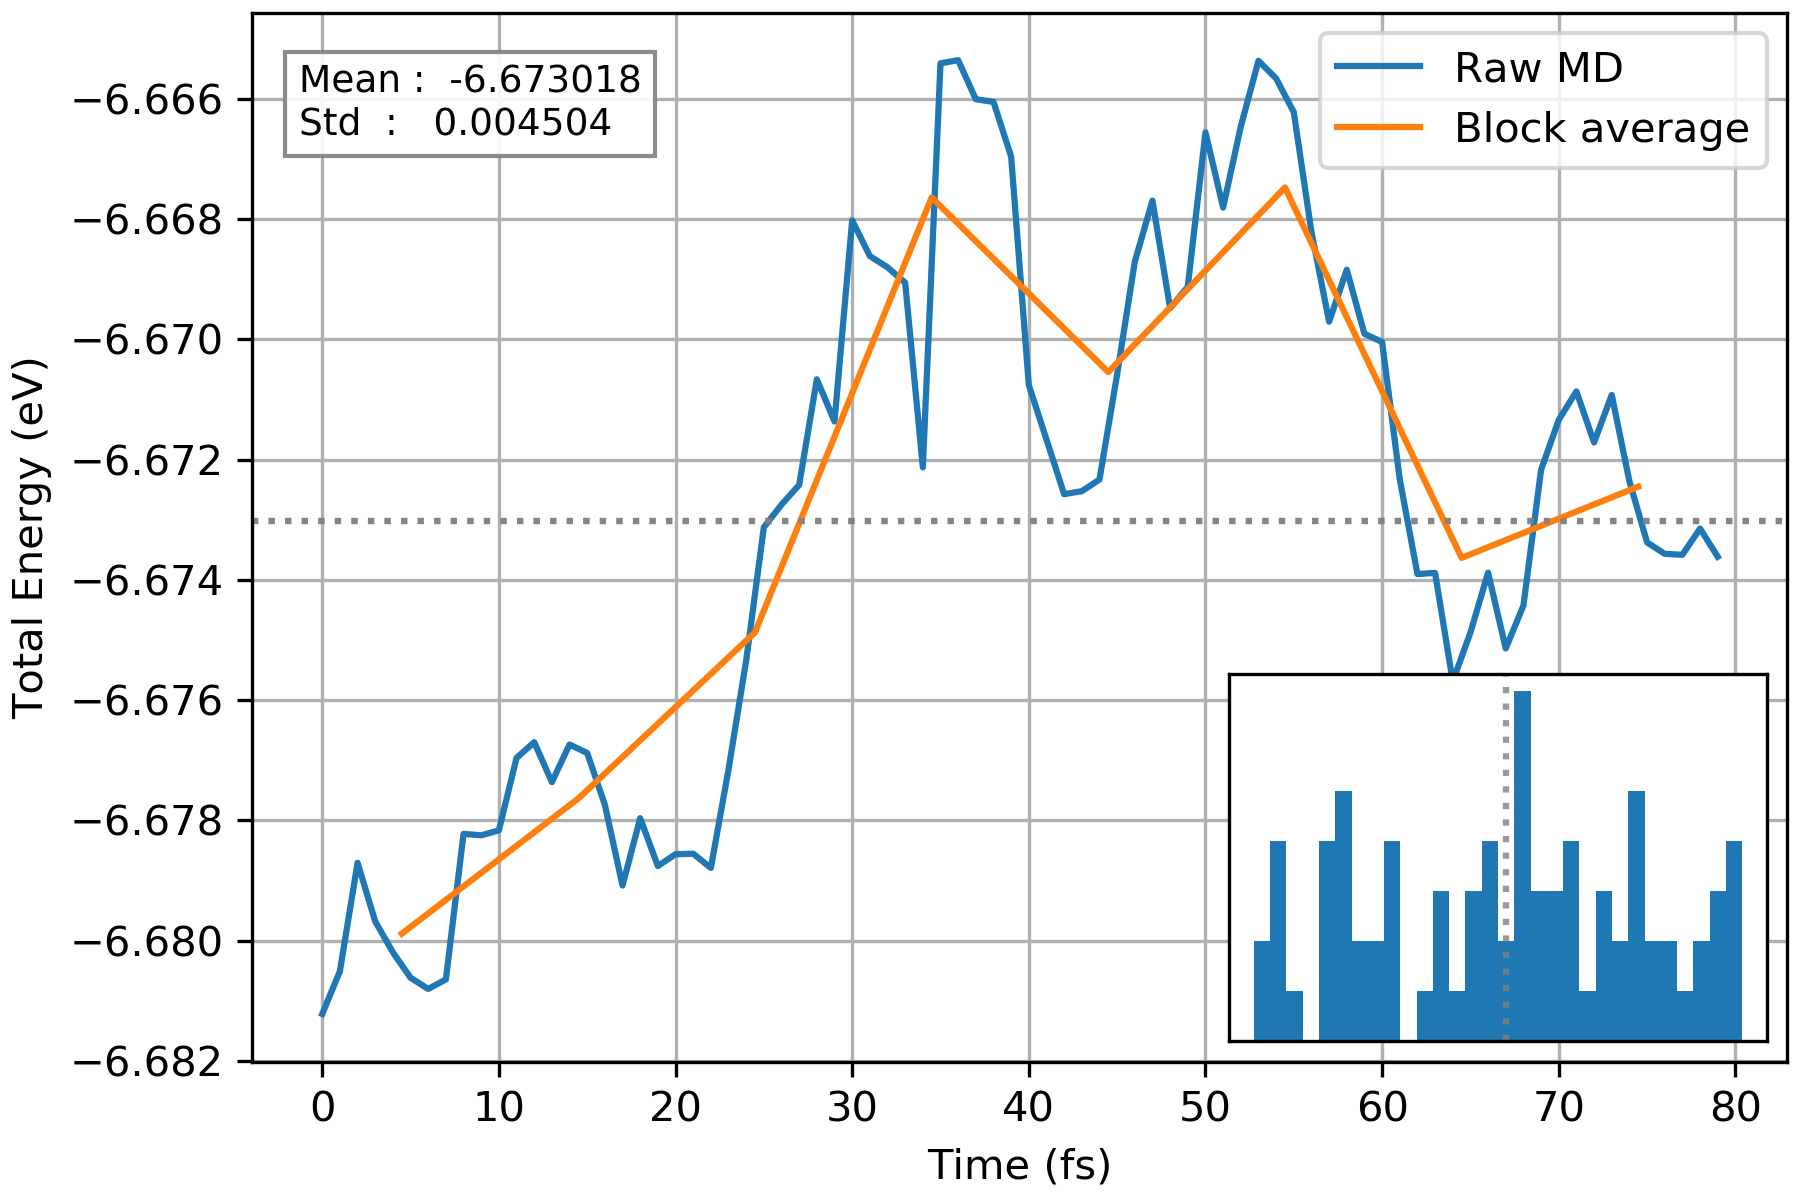
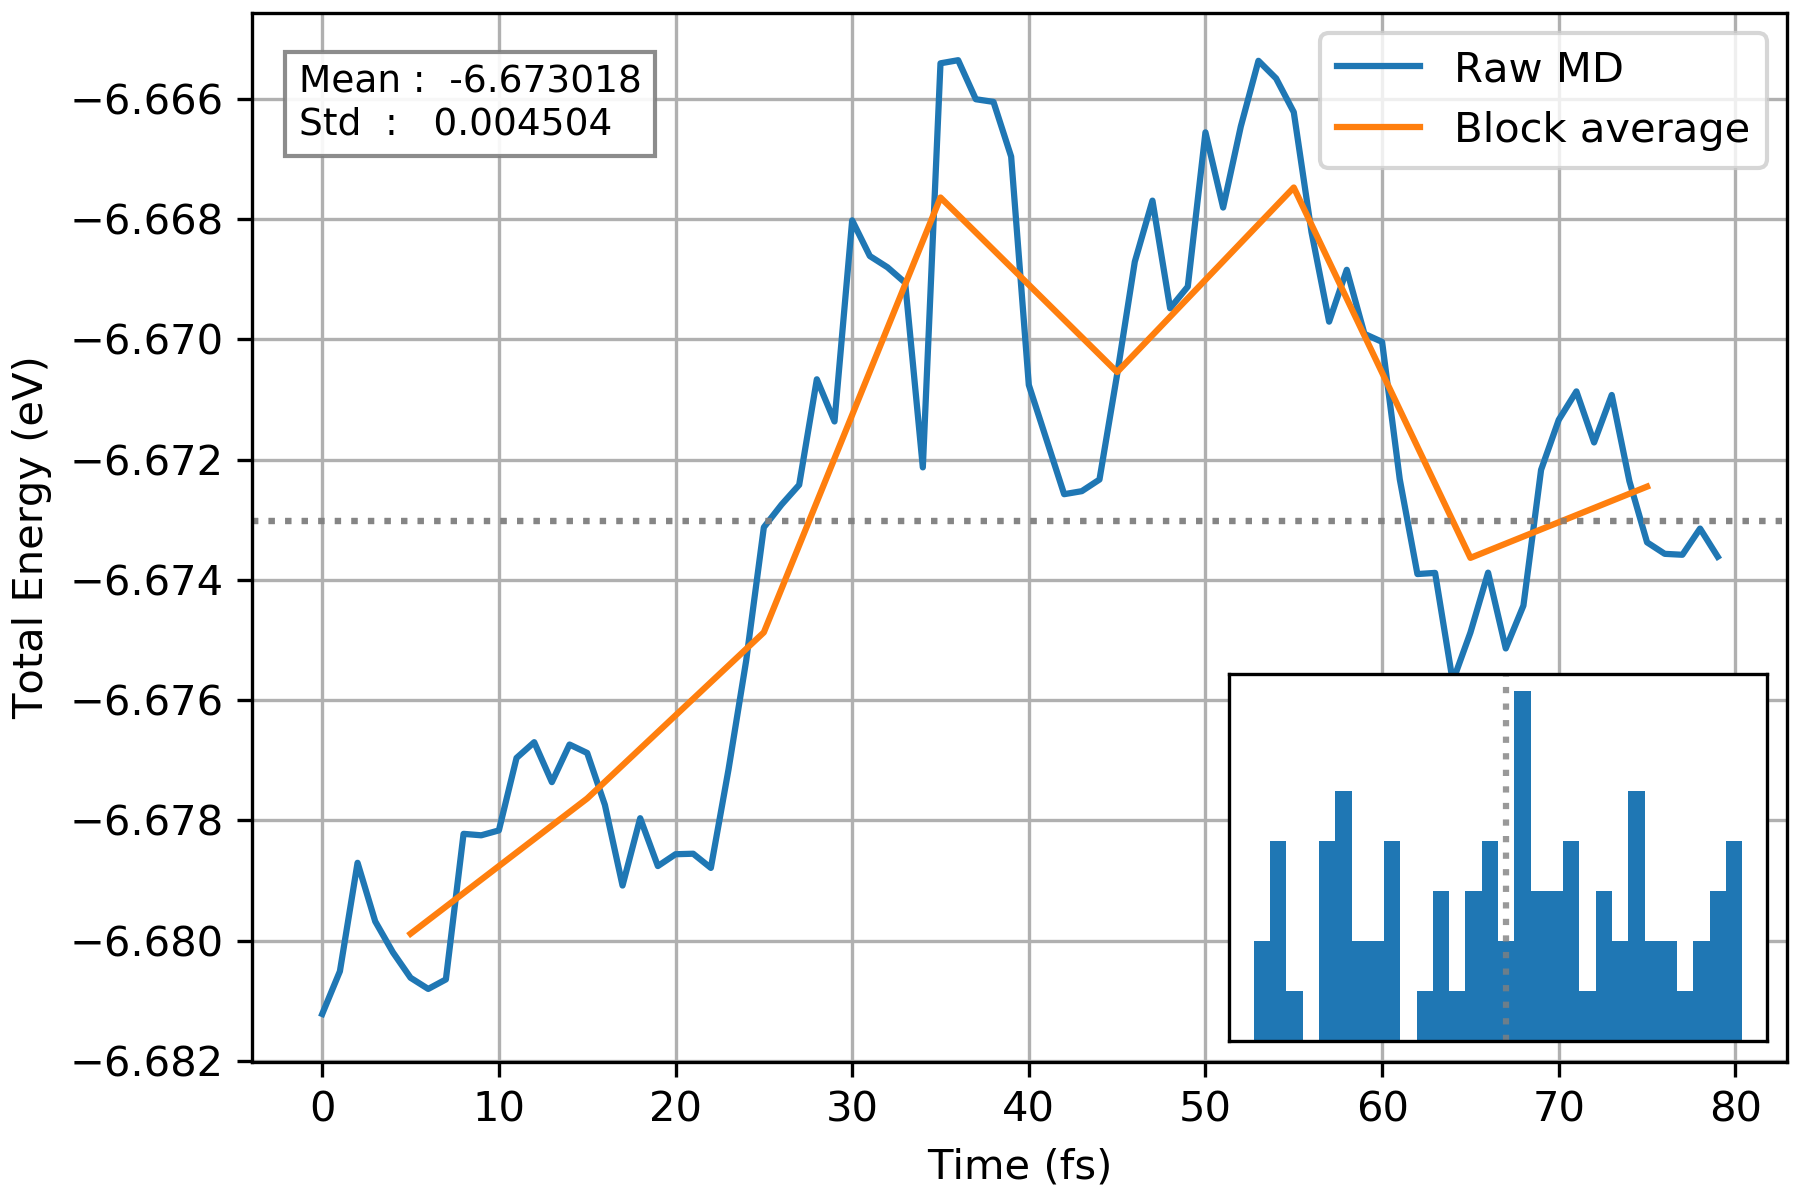
AIMD analysis: refactoring timesteps, test completed

diff --git a/aimd_analysis/model/md_profile.py b/aimd_analysis/model/md_profile.py
@@ -18,7 +18,6 @@ class MDProfile:
     operation: Optional[str] = field(default=None)
 
     # NVT에서 기본적으로 추출할 것들.
-    step: np.ndarray = field(default=None)
     Epot: np.ndarray = field(default=None)
     Ekin: np.ndarray = field(default=None)
     Etot: np.ndarray = field(default=None)
@@ -41,7 +40,11 @@ class MDProfile:
     lat_bet: Optional[np.ndarray] = field(default=None)
     lat_gam: Optional[np.ndarray] = field(default=None)
 
-    # 실제 timestep (in fs) --> 실제 시간을 쓰려면, step * dt 를 하도록. (INCAR reading 필요.)
+    # self.stride, self.first_step: step 간격 및 원점
+    stride: int = 1
+    first_step: int = 1
+
+    # 실제 timestep (in fs) --> 실제 시간을 쓰려면, step * dt 를 하도록.
     dt: Optional[float] = field(default=None)
 
     # Statistical data of time sequences (computed in statistics.py)
@@ -52,9 +55,25 @@ class MDProfile:
     # 다른 유도 properties(추출하는 것들로부터 계산되는 것들)는 여기.
     @property
     def nsteps(self) -> int:
-        if self.step is None:
-            return 0
-        return len(self.step)
+        if self.Etot is not None:
+            return len(self.Etot)
+
+        if self.lat_vecs is not None:
+            return len(self.lat_vecs)
+
+        return 0
+
+    @property
+    def indices(self) -> np.ndarray:
+        if self.nsteps == 0:
+            return None
+        return np.arange(self.nsteps)
+
+    @property
+    def step(self) -> Optional[np.ndarray]:
+        if self.nsteps == 0:
+            return None
+        return self.first_step + self.indices * self.stride
 
     @property
     def time(self) -> Optional[np.ndarray]:

diff --git a/aimd_analysis/reader/outcar.py b/aimd_analysis/reader/outcar.py
@@ -25,7 +25,6 @@ def _parse_outcar_line(line: str, data: dict) -> None:
 
     elif len(fields) >= 4 and fields[1:3] == ["Ionic", "step"]:
         data["_in_ionic_steps"] = True
-        data["step"].append(int(fields[3]))
 
     elif data["_in_ionic_steps"]:
         if data["_reading_lattice"]:
@@ -64,7 +63,6 @@ def _parse_outcar_line(line: str, data: dict) -> None:
 def read_outcar(filename: Path, verbose: bool = False) -> MDProfile:
 
     data = {
-        "step": [],
         "Epot": [],
         "Ekin": [],
         "T_md": [],
@@ -91,7 +89,6 @@ def read_outcar(filename: Path, verbose: bool = False) -> MDProfile:
 
     _validate_data(data)
 
-    step_ = np.asarray(data["step"])
     epot = np.asarray(data["Epot"])
     ekin = np.asarray(data["Ekin"])
     temperature = np.asarray(data["T_md"])
@@ -109,15 +106,13 @@ def read_outcar(filename: Path, verbose: bool = False) -> MDProfile:
         else None
     )
 
-    dt = data["dt"]
-
     return MDProfile(
-        step=step_,
         Epot=epot,
         Ekin=ekin,
         Etot=epot + ekin,
         T_md=temperature,
-        dt=dt,
+        dt=data["dt"],
+        stride=1,
         P_md=pressure,
         V_md=volume,
         lat_vecs=lat_vecs
@@ -125,10 +120,7 @@ def read_outcar(filename: Path, verbose: bool = False) -> MDProfile:
 
 def _validate_data(data: dict) -> None:
 
-    n = len(data["step"])
-
-    if len(data["Epot"]) != n:
-        raise ValueError("Different data length!!")
+    n = len(data["Epot"])
 
     if len(data["Ekin"]) != n:
         raise ValueError("Different data length!!")

diff --git a/aimd_analysis/reader/report_pureHO.py b/aimd_analysis/reader/report_pureHO.py
@@ -16,10 +16,7 @@ def _parse_report_line_pureHO(line: str, data: dict) -> None:
     if not fields:
         return
 
-    if fields[0] == "MD":
-        data["step"].append(int(fields[3]))
-
-    elif fields[0] == "e_b":
+    if fields[0] == "e_b":
         data["Ekin"].append(float(fields[3]))
 
     elif fields[0] == "e_ti":
@@ -40,7 +37,6 @@ def _parse_report_line_pureHO(line: str, data: dict) -> None:
 def read_report_pureHO(filename: Path, verbose: bool = False) -> MDProfile:
 
     data = {
-        "step": [],
         "Epot": [],
         "Ekin": [],
         "T_md": [],
@@ -55,13 +51,11 @@ def read_report_pureHO(filename: Path, verbose: bool = False) -> MDProfile:
 
     _validate_data(data)
 
-    step_ = np.asarray(data["step"])
     epot = np.asarray(data["Epot"])
     ekin = np.asarray(data["Ekin"])
     temp = np.asarray(data["T_md"])
 
     return MDProfile(
-        step=step_,
         Epot=epot,
         Ekin=ekin,
         Etot=epot + ekin,
@@ -70,10 +64,7 @@ def read_report_pureHO(filename: Path, verbose: bool = False) -> MDProfile:
 
 def _validate_data(data: dict) -> None:
 
-    n = len(data["step"])
-
-    if len(data["Epot"]) != n:
-        raise ValueError("Different data length!!")
+    n = len(data["Epot"])
 
     if len(data["Ekin"]) != n:
         raise ValueError("Different data length!!")

diff --git a/aimd_analysis/analysis/statistics.py b/aimd_analysis/analysis/statistics.py
@@ -59,6 +59,7 @@ def summary(profile: MDProfile, verbose: bool = False) -> None:
     print("MD Summary")
     print("=" * 50)
 
+    print(f"Step range      : {profile.step[0]} -> {profile.step[-1]}")
     print(f"Number of steps : {profile.nsteps}")
 
     if profile.dt is not None:
@@ -119,7 +120,6 @@ def slice_profile(
         parent=profile,
         operation="slice",
 
-        step=profile.step[start:stop],
         Epot=profile.Epot[start:stop],
         Ekin=profile.Ekin[start:stop],
         Etot=profile.Etot[start:stop],
@@ -135,6 +135,8 @@ def slice_profile(
         lat_gam=_slice_optional(profile.lat_gam, start, stop),
 
         dt=profile.dt,
+        stride=profile.stride,
+        first_step=profile.step[start],
     )
 
 
@@ -165,7 +167,6 @@ def block_average(
         parent=profile,
         operation="block_average",
 
-        step=_block_average_array(profile.step, block_size),
         Epot=_block_average_array(profile.Epot, block_size),
         Ekin=_block_average_array(profile.Ekin, block_size),
         Etot=_block_average_array(profile.Etot, block_size),
@@ -181,6 +182,8 @@ def block_average(
         lat_gam=_block_average_array(profile.lat_gam, block_size),
 
         dt=profile.dt,
+        stride=profile.stride * block_size,
+        first_step = profile.step[block_size // 2],
     )
 
 

diff --git a/aimd_analysis/reader/incar.py b/aimd_analysis/reader/incar.py
@@ -15,6 +15,8 @@ def _parse_incar_line(line: str, data: dict) -> None:
 
     if fields[0] == "POTIM":
         data["potim"] = float(fields[1])
+    elif fields[0] == "ML_OUTBLOCK":
+        data["ml_outblock"] = int(fields[1])
 
     # 이후 더 필요한 tag는 여기 추가
 
@@ -23,6 +25,7 @@ def read_incar(filename: Path) -> INCAR:
 
     data = {
         "potim": None,
+        "ml_outblock": 1,
     }
 
     with open(filename, "r") as f:
@@ -33,6 +36,7 @@ def read_incar(filename: Path) -> INCAR:
 
     return INCAR(
         potim=data["potim"],
+        ml_outblock=data["ml_outblock"]
     )
 
 def _validate_data(data: dict) -> None:

diff --git a/examples/pureHO_example_histogram.py b/examples/pureHO_example_histogram.py
@@ -21,6 +21,8 @@ profile = read_report_pureHO(report)
 incar = read_incar(incar)
 
 profile.dt = incar.potim
+profile.stride = incar.ml_outblock
+profile.first_step = incar.ml_outblock
 
 compute_statistics(profile)
 

diff --git a/examples/pureHO_example_overlay.py b/examples/pureHO_example_overlay.py
@@ -35,6 +35,8 @@ profile = read_report_pureHO(report)
 incar = read_incar(incar)
 
 profile.dt = incar.potim
+profile.stride = incar.ml_outblock
+profile.first_step = incar.ml_outblock
 
 # ============================================================
 # Slice & Block-average

diff --git a/examples/pureHO_example_plot.py b/examples/pureHO_example_plot.py
@@ -22,6 +22,8 @@ profile = read_report_pureHO(report)
 incar = read_incar(incar)
 
 profile.dt = incar.potim
+profile.stride = incar.ml_outblock
+profile.first_step = incar.ml_outblock
 
 compute_statistics(profile)
 

diff --git a/examples/pureHO_example_statistics.py b/examples/pureHO_example_statistics.py
@@ -33,6 +33,8 @@ profile = read_report_pureHO(report)
 
 incar = read_incar(incar)
 profile.dt = incar.potim
+profile.stride = incar.ml_outblock
+profile.first_step = incar.ml_outblock
 
 
 # ==========================================================

diff --git a/aimd_analysis/model/incar_tags.py b/aimd_analysis/model/incar_tags.py
@@ -6,3 +6,4 @@ class INCAR:
 
     # 일단 지금은 POTIM만 추출. 나중에 필요시 하나하나 넣을 것.
     potim: float = field(default=None)
+    ml_outblock: int = 1